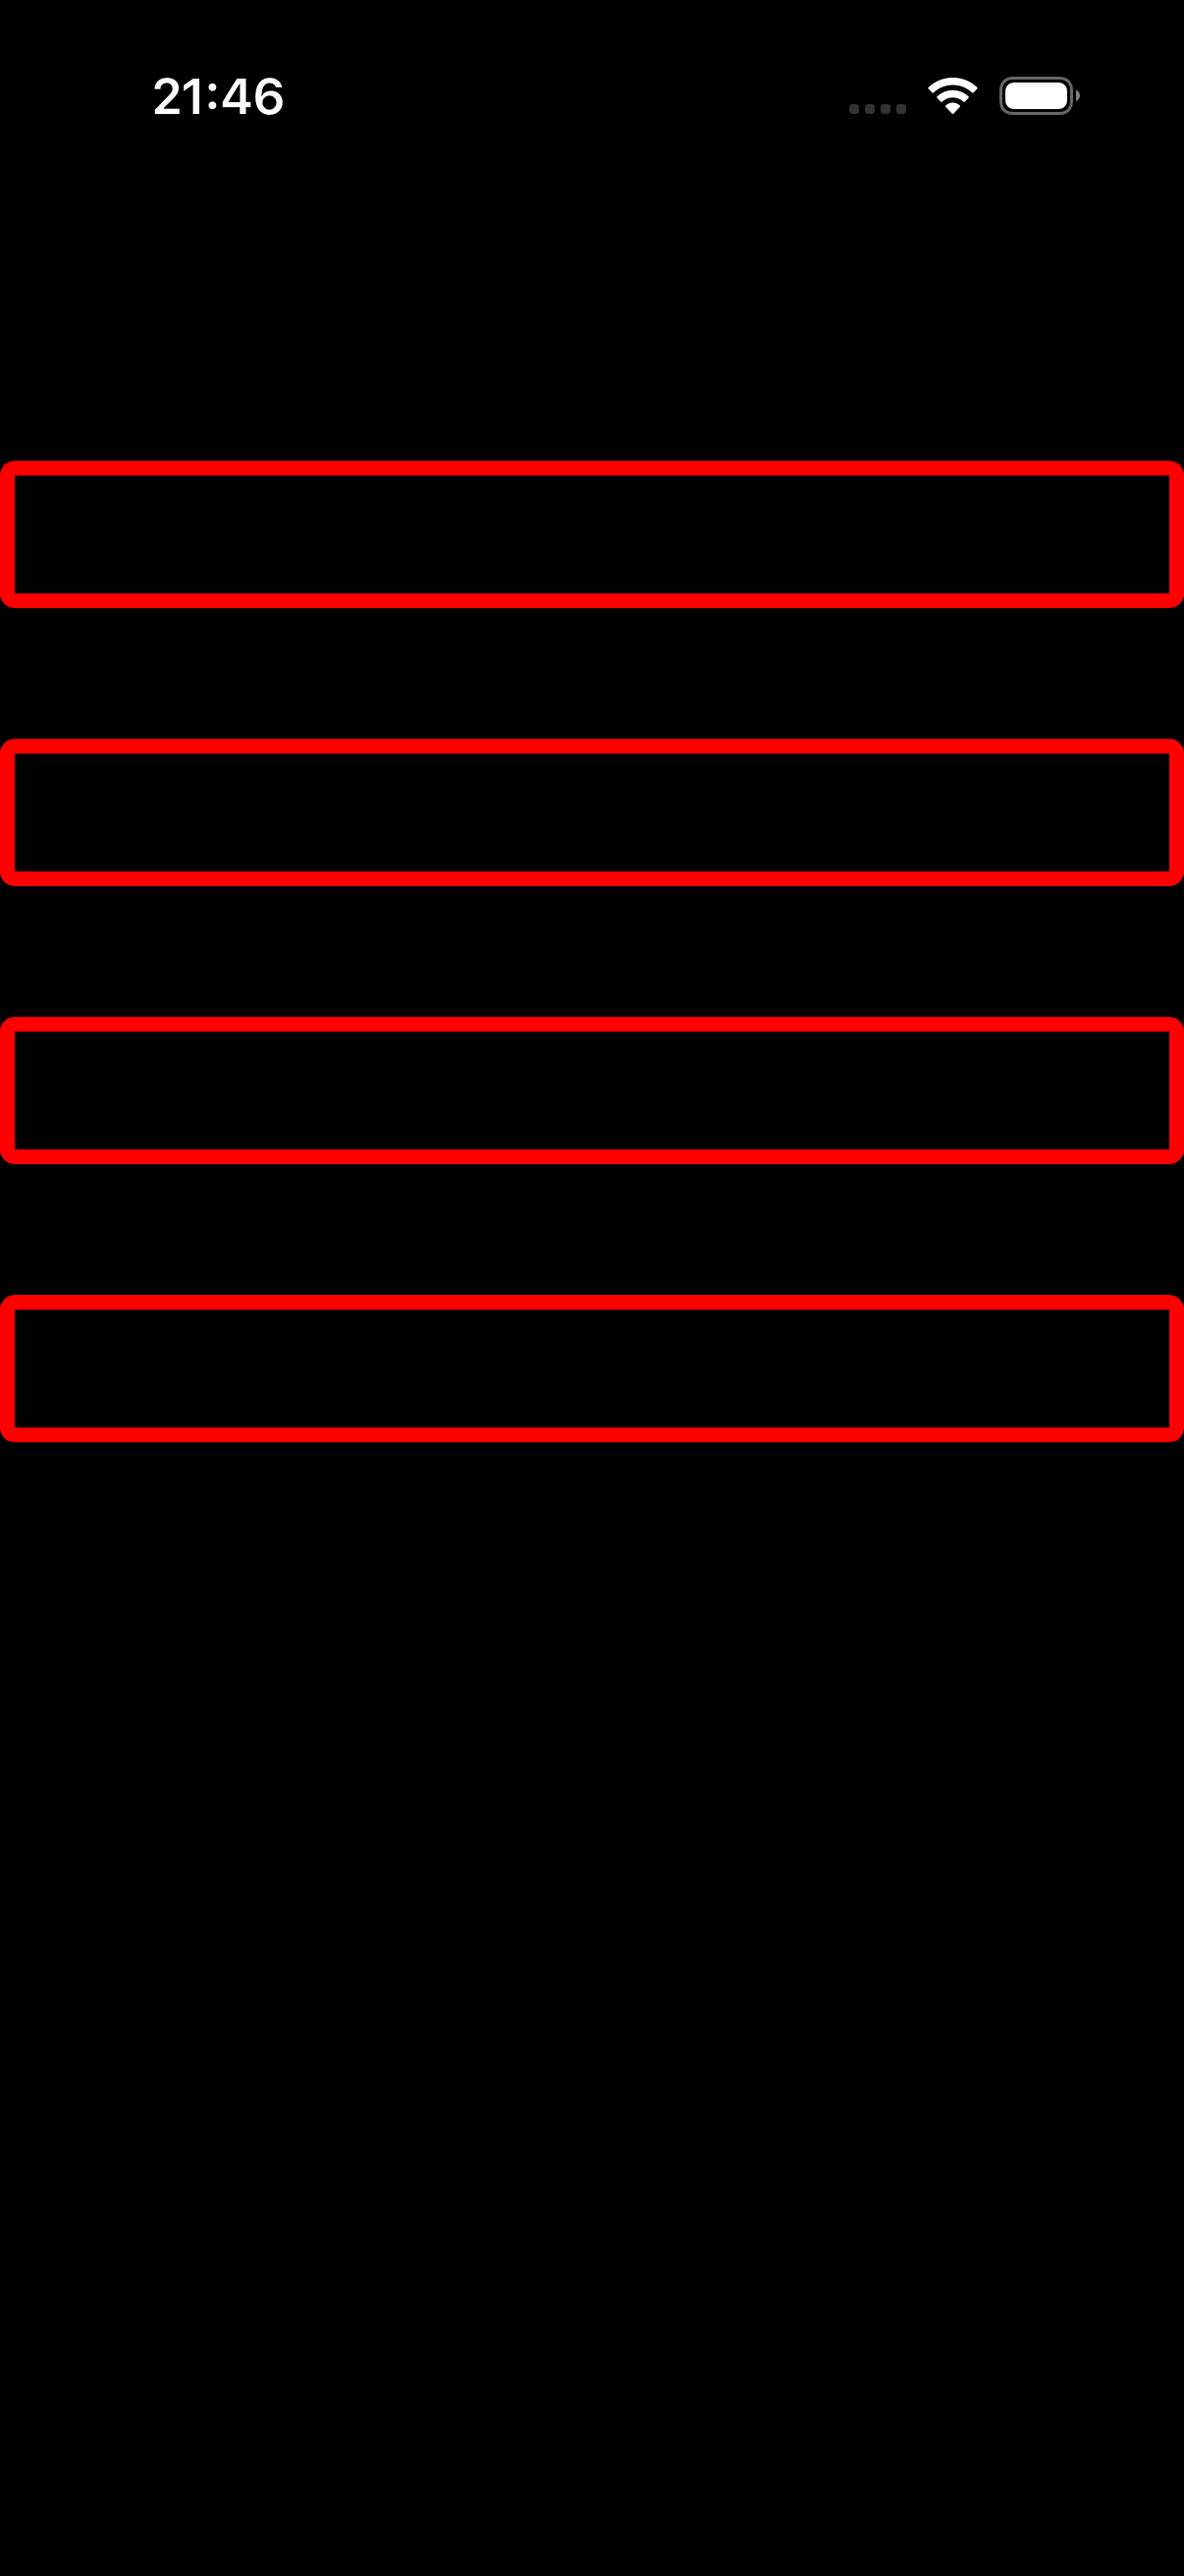
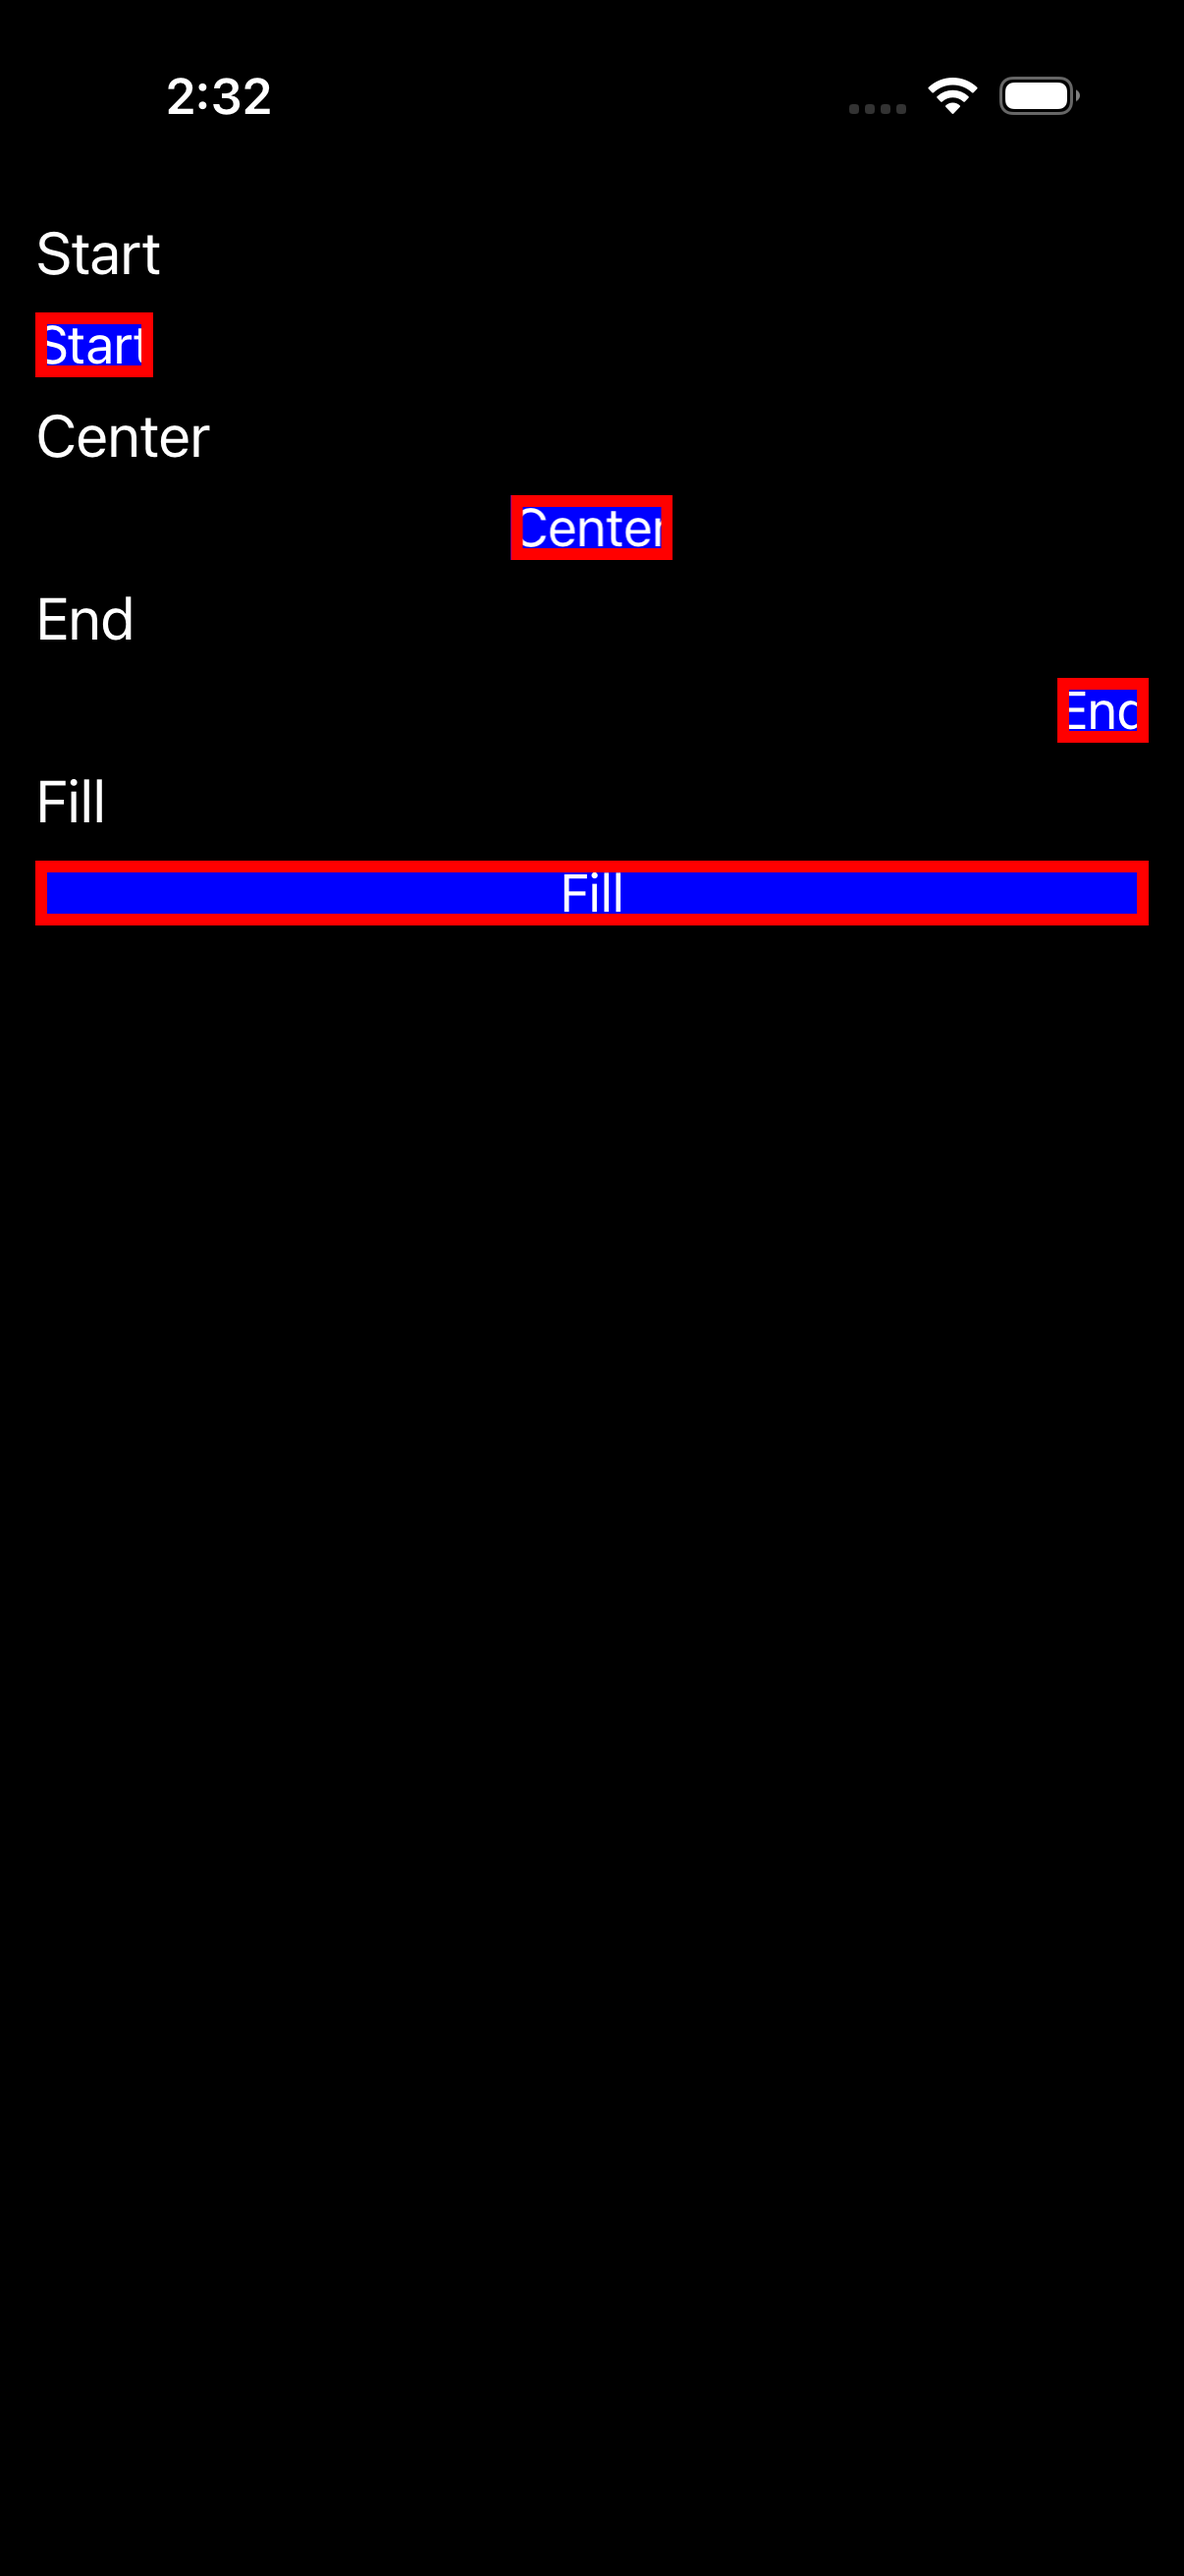
feat(samples): #38 alignment gallery page (LayoutOptions Start/Center/End/Fill)
The 'alignment' tracker key had no C++ gallery page (it fell back to the
value-controls page → diff). The port DOES expose View.HorizontalOptions/
VerticalOptions (horizontal_layout_alignment, default Fill) and arrange
honors it (view<>::align_horizontal, ported from C# LayoutExtensions.
AlignHorizontal). Authored alignment_page.hpp mirroring the maui-compare
demo: 4 sections (Start/Center/End/Fill), each a header + a blue/red-stroke
button carrying that HorizontalOptions. Verified on-sim both themes: the
button lands left/center/right/full-width exactly like C#. Registered in
gallery_host.hpp; iOS + macOS galleries compile clean.

Residual: the port button is content-sized vs C#'s larger default iOS
button padding/min-width — a styling difference. Tracker diff -> minor.

Changed region(s): [[0.0, 0.0927, 1.0, 0.4634], [0.0, 0.4943, 1.0, 0.587], [0.1227, 0.0309, 0.2454, 0.0618]]

diff --git a/port/cpp/src/samples/pages/alignment_page.hpp b/port/cpp/src/samples/pages/alignment_page.hpp
@@ -1,0 +1,120 @@
+#pragma once
+// maui::samples::alignment_page — demonstrates per-child layout alignment (View.HorizontalOptions /
+// LayoutOptions Start/Center/End/Fill), the modern MAUI replacement for the legacy alignment knobs.
+//
+// Mirrors the maui-compare "alignment" demo: a vertical stack of four sections, each a bold section
+// header label naming an alignment, followed by a button carrying that HorizontalOptions value. Because a
+// vertical_stack_layout gives every child the full stack width, each button's horizontal_layout_alignment
+// decides where it lands inside that width: Start = content-width pinned left, Center = centered, End =
+// pinned right, Fill = stretched edge-to-edge. The arrange-time ComputeFrame (view<>::align_horizontal,
+// ported from C# LayoutExtensions.AlignHorizontal) is what honors the value — this page is its visual
+// proof. The buttons are blue-filled with a red stroke and white text so the alignment is unmistakable.
+//
+// The page OWNS its whole element tree (the sample_app pattern). It is backend-agnostic — a sample main
+// attaches handlers bottom-up via the hosting layer and hosts page() in a window; the headless/apple/ios
+// test trees exercise the same controls directly.
+
+#include <array>
+#include <memory>
+#include <utility>
+
+#include "maui/controls/brushes/solid_color_brush.hpp"
+#include "maui/controls/button.hpp"
+#include "maui/controls/content_page.hpp"
+#include "maui/controls/label.hpp"
+#include "maui/controls/vertical_stack_layout.hpp"
+#include "maui/core/font.hpp"
+#include "maui/core/layout_alignment.hpp"
+#include "maui/core/thickness.hpp"
+#include "maui/graphics/colors.hpp"
+#include "maui/hosting/maui_app.hpp"
+
+#include "gallery_attach.hpp"
+
+namespace maui::samples
+{
+    class alignment_page
+    {
+        // One section per LayoutOptions value: the header caption and the alignment it demonstrates.
+        struct row
+        {
+            const char* caption;
+            maui::core::layout_alignment alignment;
+        };
+        static constexpr std::array<row, 4> k_rows{{
+            {"Start", maui::core::layout_alignment::start},
+            {"Center", maui::core::layout_alignment::center},
+            {"End", maui::core::layout_alignment::end},
+            {"Fill", maui::core::layout_alignment::fill},
+        }};
+
+    public:
+        alignment_page()
+        {
+            page_.set_title("Alignment");
+            root_.set_padding(maui::core::thickness(12));
+            root_.set_spacing(8);
+
+            for (std::size_t i = 0; i < k_rows.size(); ++i)
+            {
+                const row& r = k_rows.at(i);
+
+                // The section header (a bold, content-height caption above its button).
+                maui::controls::label& header = headers_.at(i);
+                header.set_text(r.caption);
+                header.set_font(maui::core::font::system_font_of_size(20.0));
+                root_.add(header);
+
+                // The button carrying this row's HorizontalOptions — blue fill, red stroke, white text.
+                maui::controls::button& btn = buttons_.at(i);
+                btn.set_text(r.caption);
+                btn.set_text_color(maui::graphics::colors::white);
+                btn.set_background_brush(
+                    std::make_shared<maui::controls::solid_color_brush>(maui::graphics::colors::blue));
+                btn.set_stroke_color(maui::graphics::colors::red);
+                btn.set_stroke_thickness(4.0);
+                btn.set_horizontal_layout_alignment(r.alignment);
+                root_.add(btn);
+            }
+
+            page_.set_content(root_);
+        }
+
+        [[nodiscard]] maui::controls::content_page& page()
+        {
+            return page_;
+        }
+
+        // Attach a handler to every OWNED view, BOTTOM-UP (the section headers + buttons first, then the
+        // stack, then the page), then re-host the tree built in the ctor (gallery_attach.hpp).
+        void attach_handlers(maui::hosting::maui_app& app)
+        {
+            for (std::size_t i = 0; i < k_rows.size(); ++i)
+            {
+                gallery_attach_one(app, headers_.at(i), "alignment_header");
+                gallery_attach_one(app, buttons_.at(i), "alignment_button");
+            }
+            gallery_attach_one(app, root_, "root_");
+            gallery_attach_one(app, page_, "page_");
+
+            gallery_rehost_layout(root_); // the stack hosts the headers + buttons
+            gallery_rehost_content(page_);
+        }
+
+        // The owned controls, exposed for tests / the hosting main's bottom-up attachment.
+        [[nodiscard]] maui::controls::vertical_stack_layout& root()
+        {
+            return root_;
+        }
+        [[nodiscard]] maui::controls::button& button_at(std::size_t i)
+        {
+            return buttons_.at(i);
+        }
+
+    private:
+        maui::controls::content_page page_;
+        maui::controls::vertical_stack_layout root_;
+        std::array<maui::controls::label, 4> headers_;
+        std::array<maui::controls::button, 4> buttons_;
+    };
+} // namespace maui::samples

diff --git a/port/cpp/src/samples/gallery_host.hpp b/port/cpp/src/samples/gallery_host.hpp
@@ -102,6 +102,8 @@
 #include "pages/radio_template_from_style_page.hpp"
 #include "pages/scattered_radio_button_page.hpp"
 #include "pages/shadow_playground_page.hpp"
+// --- layout alignment (LayoutOptions Start/Center/End/Fill) ---
+#include "pages/alignment_page.hpp"
 // --- batch 11 (BorderGalleries) ---
 #include "pages/border_alignment_page.hpp"
 #include "pages/border_clip_playground_page.hpp"
@@ -321,6 +323,7 @@
     X("border_stroke", border_stroke_page)                                                                             \
     X("border_playground", border_playground_page)                                                                     \
     X("border_layout", border_layout_page)                                                                             \
+    X("alignment", alignment_page)                                                                                     \
     X("border_alignment", border_alignment_page)                                                                       \
     X("border_clip_playground", border_clip_playground_page)                                                           \
     X("borderless", borderless_page)                                                                                   \

diff --git a/port/cpp/docs/comparison/README.md b/port/cpp/docs/comparison/README.md
@@ -2,7 +2,7 @@
 
 Theme-matched iOS comparison: each page rendered by **real .NET MAUI** vs the **C++ port**, on the same iPhone 17 simulator, compared **light-vs-light** and **dark-vs-dark**. Both stacks render native-default controls + the system font (the C# app's `dotnet new maui` default `Styles.xaml` + OpenSans are stripped; appearance forced via `MAUI_THEME` / `MAUI_APPEARANCE`). Goal: pixel-perfect parity, fixed example-by-example.
 
-**Progress: 0 / 172 🟢 matched** · 35 🟡 minor · 46 🔴 diff · 91 ⬜ pending
+**Progress: 0 / 172 🟢 matched** · 36 🟡 minor · 45 🔴 diff · 91 ⬜ pending
 
 Status legend: 🟢 pixel-match (both themes) · 🟡 minor diff · 🔴 notable diff to fix · ⬜ not yet reviewed. Per-theme verdicts in `parity_status.json`.
 
@@ -49,7 +49,7 @@ Rows are in **fix order** (top → bottom): foundational single controls first (
 | 35 | Absolute Layout | 🟡<br>L:minor<br>D:minor | ![](csharp_ios_light/absolute_layout.png) | ![](cpp_ios_light/absolute_layout.png) | ![](csharp_ios_dark/absolute_layout.png) | ![](cpp_ios_dark/absolute_layout.png) |
 | 36 | Flex Layout | 🟡<br>L:minor<br>D:minor | ![](csharp_ios_light/flex_layout.png) | ![](cpp_ios_light/flex_layout.png) | ![](csharp_ios_dark/flex_layout.png) | ![](cpp_ios_dark/flex_layout.png) |
 | 37 | Relative Layout | 🟡<br>L:minor<br>D:minor | ![](csharp_ios_light/relative_layout.png) | ![](cpp_ios_light/relative_layout.png) | ![](csharp_ios_dark/relative_layout.png) | ![](cpp_ios_dark/relative_layout.png) |
-| 38 | Layout alignment (Start/Center/End/Fill) | 🔴<br>L:diff<br>D:diff | ![](csharp_ios_light/alignment.png) | ![](cpp_ios_light/alignment.png) | ![](csharp_ios_dark/alignment.png) | ![](cpp_ios_dark/alignment.png) |
+| 38 | Layout alignment (Start/Center/End/Fill) | 🟡<br>L:minor<br>D:minor | ![](csharp_ios_light/alignment.png) | ![](cpp_ios_light/alignment.png) | ![](csharp_ios_dark/alignment.png) | ![](cpp_ios_dark/alignment.png) |
 | 39 | Z Index | ⬜<br>L:pending<br>D:pending | ![](csharp_ios_light/z_index.png) | ![](cpp_ios_light/z_index.png) | ![](csharp_ios_dark/z_index.png) | ![](cpp_ios_dark/z_index.png) |
 | 40 | Layout Is Enabled | ⬜<br>L:pending<br>D:pending | ![](csharp_ios_light/layout_is_enabled.png) | ![](cpp_ios_light/layout_is_enabled.png) | ![](csharp_ios_dark/layout_is_enabled.png) | ![](cpp_ios_dark/layout_is_enabled.png) |
 | 41 | Shapes | 🔴<br>L:diff<br>D:diff | ![](csharp_ios_light/shapes.png) | ![](cpp_ios_light/shapes.png) | ![](csharp_ios_dark/shapes.png) | ![](cpp_ios_dark/shapes.png) |
